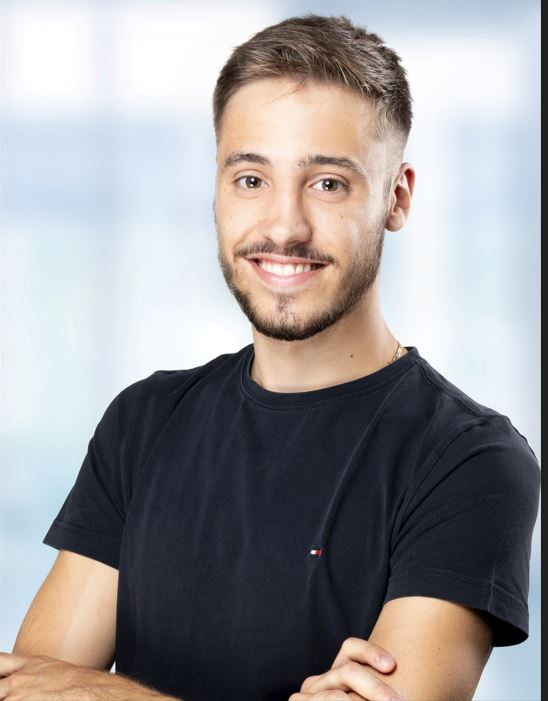
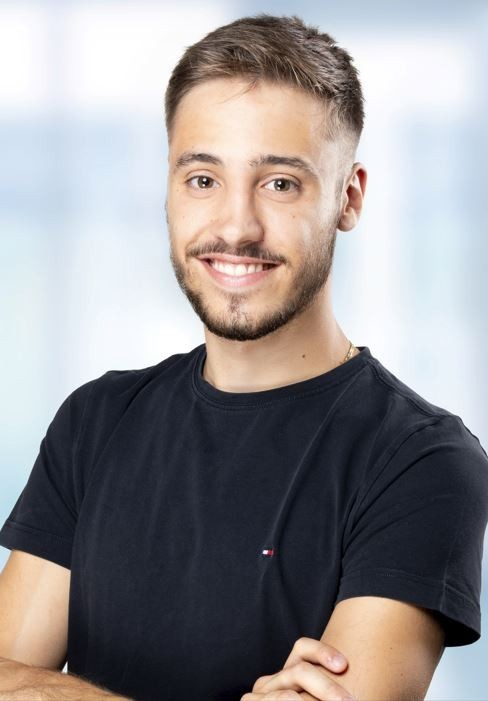
updated portfolio-app with css designs

diff --git a/portfolio-app/src/app/app.component.html b/portfolio-app/src/app/app.component.html
@@ -1,16 +1,9 @@
 <ul>
-  <!-- <li><a [routerLink]="'/about-me'">about me</a></li>
-  <li><a [routerLink]="'/cv'">cv</a></li> -->
  </ul>
  <nav class="nav-extended">
   <div class="nav-wrapper">
-    <a href="#" class="brand-logo">SIUUUUUUUUUUUUUUUUUUUUUUUUUUUUUU</a>
+    <a href="#" class="brand-logo">Portfolio</a>
     <a href="#" data-target="mobile-demo" class="sidenav-trigger"><i class="material-icons">menu</i></a>
-    <!-- <ul id="nav-mobile" class="right hide-on-med-and-down">
-      <li><a href="sass.html">Sass</a></li>
-      <li><a href="badges.html">Components</a></li>
-      <li><a href="collapsible.html">JavaScript</a></li>
-    </ul> -->
   </div>
   <div class="nav-content">
     <ul class="tabs tabs-transparent">
@@ -19,43 +12,4 @@
     </ul>
   </div>
 </nav>
-<!-- <div class="row">
-  <div class="col s12 m7">
-    <div class="card">
-      <div class="card-image">
-        <img src="assets/profile.jpg">
-        <span class="card-title">Emanuele</span>
-      </div>
-      <div class="card-content">
-        <p>Fino Alla Fine</p>
-      </div>
-    </div>
-  </div>
-</div> -->
-
-<!-- <ul class="sidenav" id="mobile-demo">
-  <li><a href="sass.html">Sass</a></li>
-  <li><a href="badges.html">Components</a></li>
-  <li><a href="collapsible.html">JavaScript</a></li>
-</ul> -->
-
-<!-- <div id="test1" class="col s12">Test 1</div>
-<div id="test2" class="col s12">Test 2</div>
-<div id="test3" class="col s12">Test 3</div>
-<div id="test4" class="col s12">Test 4</div>
-<div class="row">
-  <div class="col s12 m6">
-    <div class="card blue-grey darken-1">
-      <div class="card-content white-text">
-        <span class="card-title">Card Title</span>
-        <p>I am a very simple card. I am good at containing small bits of information.
-        I am convenient because I require little markup to use effectively.</p>
-      </div>
-      <div class="card-action">
-        <a href="#">This is a link</a>
-        <a href="#">This is a link</a>
-      </div>
-    </div>
-  </div>
-</div> -->
 <router-outlet />

diff --git a/portfolio-app/src/app/components/about-me/about-me.component.html b/portfolio-app/src/app/components/about-me/about-me.component.html
@@ -1,3 +1,31 @@
-<h1>About me</h1>
-<p>{{ aboutMe?.name }}</p>
-<img [src]="aboutMe?.imagePath">
+<!-- <h1>About me</h1> -->
+<!-- <p>{{ aboutMe?.name }}</p> -->
+<!-- <img [src]="aboutMe?.imagePath"> -->
+<div class="row">
+    <div class="col s12 m7">
+      <div class="card">
+        <div class="card-image">
+          <img [src]="aboutMe?.imagePath" style="width: 300px; height: auto;"> 
+          <span class="card-title">About Me</span>
+        </div>
+        <!-- <div class="card-title">
+            <p>About Me</p>
+        </div> -->
+        <div class="card-content">
+          <p>Mein Name ist Emanuele Pintarelli. Ich bin 22 Jahre alt und komme aus Zuchwil.
+          <br>
+          <br> Was ich mag:
+          <br> • Fussball spielen 
+          <br> • Juventus
+          <br> • 3D Druck
+          <br> • Informatik
+          <br> • Reisen
+          <br> • Mit Freunden und Familie Dinge unternehmen
+          </p>
+        </div>
+        <!-- <div class="card-action">
+          <a href="#">This is a link</a>
+        </div> -->
+      </div>
+    </div>
+  </div>

diff --git a/portfolio-app/src/app/components/about-me/about-me.component.scss b/portfolio-app/src/app/components/about-me/about-me.component.scss
@@ -1,0 +1,33 @@
+.card-image img {
+    display: inline-block; 
+    width: 300px; /* Kann optional beibehalten werden */
+    height: auto;
+  }
+  
+  .card {
+    display: inline-block;
+    font-size: 20px; /* Schriftgröße auf 14px setzen */
+    background-color: #F8FAFC;
+  }
+
+.card-content {
+  padding: 10px; /* Anpassen oder auf 0 setzen */
+  margin: 0;    /* Anpassen oder auf 0 setzen */
+  width: 300px; /*  Oder die Breite des Bildes verwenden */ 
+  line-height: 1.3; /*  reduziert den Abstand zwischen den Zeilen */
+}
+
+.card .card-title {
+    display: inline-block;
+    width: 300px; /* Kann optional beibehalten werden */
+    color: #9AA6B2;
+    font-size: 50px;
+    font-weight: bold;
+    background-color: #F8FAFC;
+    // padding-left: 24px;
+    // padding-right: 24px;
+    padding-top: 0;
+    padding-bottom: 0;
+    text-align: center;
+    // line-height: 0; /*  reduziert den Abstand zwischen den Zeilen */
+}

diff --git a/portfolio-app/src/app/components/cv/cv.component.html b/portfolio-app/src/app/components/cv/cv.component.html
@@ -1,6 +1,20 @@
-<h1>CV</h1>
-<ul>
+<!-- <h1>CV</h1> -->
+<!-- <ul>
  @for (cv of cvs; track cv.employer) {
  <li>{{ cv.employer }} {{ cv.start }} - {{ cv.end }}</li>
  }
-</ul>
+</ul> -->
+
+<div class="row">
+    <div class="col s12 m6">
+        <div class="card">
+          <span class="card-title">Mein Lebenslauf</span>
+          <ul>
+            @for (cv of cvs; track cv.employer) {
+            <li>• {{ cv.employer }} {{ cv.start }} - {{ cv.end }}</li>
+            }
+           </ul>
+        </div>
+    </div>
+  </div>
+         

diff --git a/portfolio-app/src/app/components/cv/cv.component.scss b/portfolio-app/src/app/components/cv/cv.component.scss
@@ -1,0 +1,18 @@
+.card {
+    display: inline-block;
+    font-size: 20px; /* Schriftgröße auf 14px setzen */
+    background-color: #F8FAFC;
+    line-height: 1.3; /*  reduziert den Abstand zwischen den Zeilen */
+  }
+
+.card .card-title {
+    display: inline-block;
+    // width: 300px; /* Kann optional beibehalten werden */
+    color: #9AA6B2;
+    font-size: 50px;
+    font-weight: bold;
+    background-color: #F8FAFC;
+    text-align: center;
+    padding-left: 20px;
+    padding-right: 20px;
+}

diff --git a/portfolio-app/src/app/app.component.scss b/portfolio-app/src/app/app.component.scss
@@ -1,0 +1,9 @@
+.nav-extended {
+    background-color: #9AA6B2
+}
+
+.brand-logo {
+    font-size: 50px;
+    font-weight: bold;
+    color: #F8FAFC;
+}

diff --git a/portfolio-app/src/styles.scss b/portfolio-app/src/styles.scss
@@ -1,1 +1,4 @@
 /* You can add global styles to this file, and also import other style files */
+body {
+    background-color: whitesmoke; 
+  }
